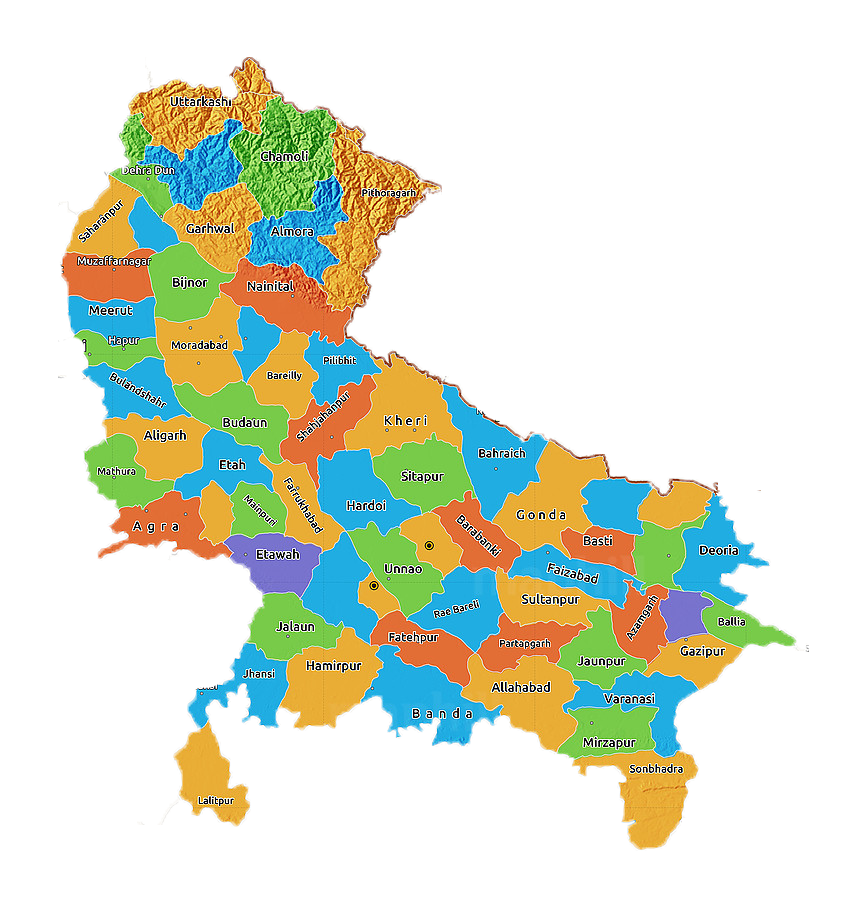
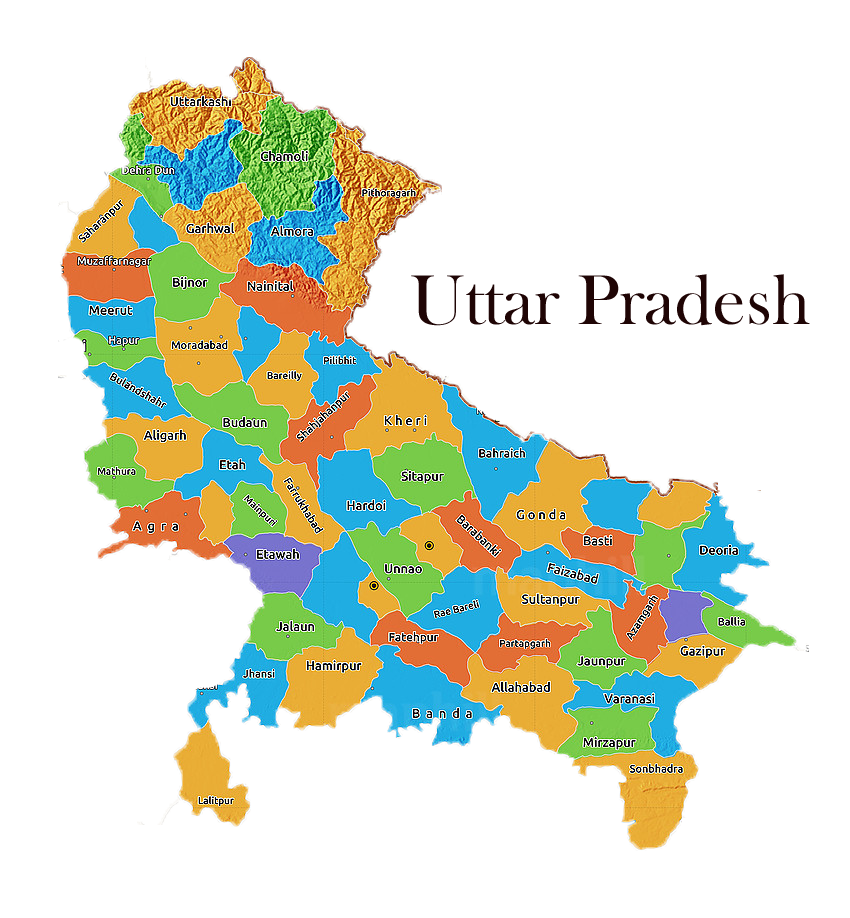
UP font

Changed region(s): [[0.6729, 0.305, 0.9482, 0.366], [0.5506, 0.305, 0.6424, 0.366], [0.4894, 0.2745, 0.52, 0.366]]

diff --git a/manuscript/page-9/body.html b/manuscript/page-9/body.html
@@ -4,7 +4,7 @@
 </header>
 <div class="leaf flex">
     <div class="inner justify ">
-        <img class="center flex vertical-pad" src="https://raw.githubusercontent.com/kanishkrai/narendra-modi/master/assets/images/Uttar-Pradesh-Assembly-election-2017-Opinion-Poll-Exit-Poll3.png" width="60%" />
+        <img class="center flex vertical-pad" src="https://raw.githubusercontent.com/kanishkrai/narendra-modi/master/assets/images/up.png" width="60%" />
         <h2> The UP Equation </h2>
         <p>
             Elections in UP are a solid indicator of the general mood and swing of Indian politics. There is both a favorable mahadasha and an antardasha, all but a tough road ahead due to the influence of <em>Sadhe-Saati</em> of Saturn that will last for another seven and a half years.
